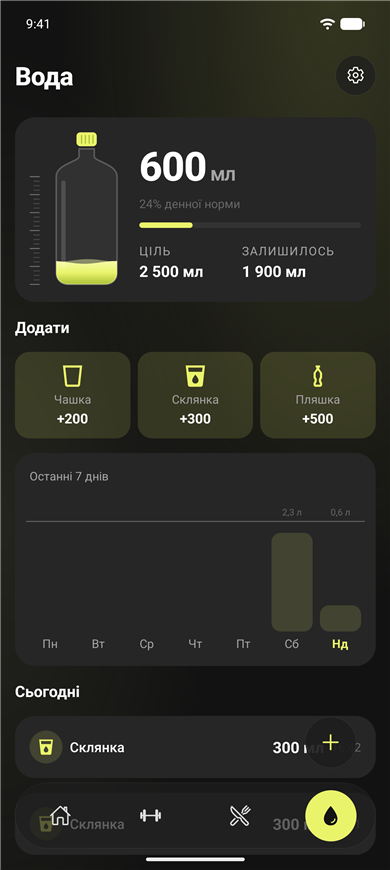
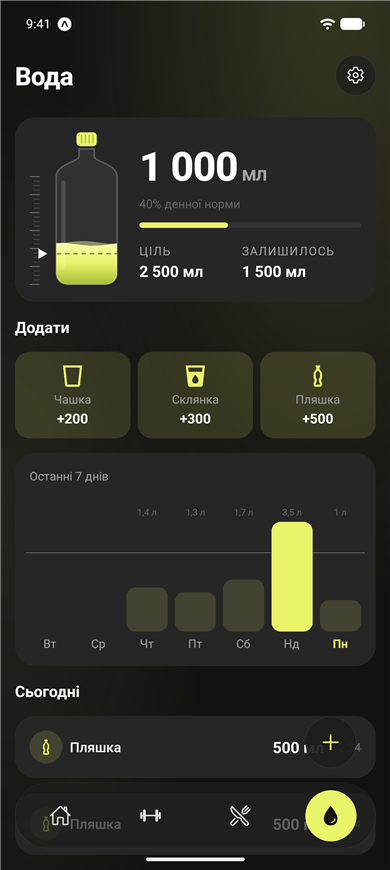
Mark on the water bottle where the level should be by now
The pace follows the waking hours from the reminder settings. Shown on the
Water tab and the dashboard water widgets.

diff --git a/src/components/water-bottle.tsx b/src/components/water-bottle.tsx
@@ -8,7 +8,7 @@ import Animated, {
   useSharedValue,
   withSpring,
 } from 'react-native-reanimated';
-import Svg, { ClipPath, Defs, G, LinearGradient, Path, Rect, Stop } from 'react-native-svg';
+import Svg, { ClipPath, Defs, G, Line, LinearGradient, Path, Rect, Stop } from 'react-native-svg';
 
 import { colors } from '@/theme';
 
@@ -186,13 +186,30 @@ function wavePath(levelY: number, angle: number, amplitude: number, phase: numbe
   return `${d}Z`;
 }
 
+/** The upright water line for a fill of `share` (0–1). Empty sits just below the bottom so the wave crests stay hidden. */
+const levelToY = (share: number) => {
+  'worklet';
+  return BOTTOM + 8 - share * (BOTTOM + 8 - TOP);
+};
+
 /**
  * A bottle filled to `progress` (0–1, clamped) with a living water surface:
  * it waves gently, splashes when `progress` grows and sloshes as the phone tilts.
+ * `pace` (0–1) marks on the ruler and across the bottle where the level should be by now.
  */
-export function WaterBottle({ progress, height }: { progress: number; height: number }) {
+export function WaterBottle({
+  progress,
+  height,
+  pace,
+}: {
+  progress: number;
+  height: number;
+  pace?: number;
+}) {
   const id = useId().replace(/[^a-zA-Z0-9]/g, '');
   const target = Math.min(Math.max(progress, 0), 1);
+  const paceY = pace != null && pace > 0 ? levelToY(Math.min(pace, 1)) : null;
+  const ahead = paceY != null && target >= Math.min(pace ?? 0, 1);
   const level = useSharedValue(target);
   const phase = useSharedValue(0);
   // Direction of "down" on screen, in radians from straight down.
@@ -248,8 +265,7 @@ export function WaterBottle({ progress, height }: { progress: number; height: nu
 
   const waterY = () => {
     'worklet';
-    // Empty sits just below the bottom so the wave crests stay hidden.
-    return BOTTOM + 8 - level.get() * (BOTTOM + 8 - TOP);
+    return levelToY(level.get());
   };
 
   const frontProps = useAnimatedProps(() => ({
@@ -304,9 +320,28 @@ export function WaterBottle({ progress, height }: { progress: number; height: nu
           <AnimatedPath animatedProps={backProps} fill={colors.accentGradientEnd} opacity={0.45} />
           <AnimatedPath animatedProps={frontProps} fill={`url(#water${id})`} />
           <Rect x={20} y={76} width={7} height={140} rx={3.5} fill="rgba(255,255,255,0.14)" />
+          {paceY != null && (
+            <Line
+              x1={0}
+              y1={paceY}
+              x2={BOTTLE_W}
+              y2={paceY}
+              stroke={ahead ? 'rgba(20,20,20,0.45)' : 'rgba(255,255,255,0.6)'}
+              strokeWidth={2.5}
+              strokeDasharray="7 6"
+            />
+          )}
         </G>
         <Path d={BODY} fill="none" stroke="rgba(255,255,255,0.22)" strokeWidth={2.5} />
       </G>
+
+      {paceY != null && (
+        // Points from the ruler at the level that should be drunk by now.
+        <Path
+          d={`M${BOTTLE_X - 2} ${paceY} L${BOTTLE_X - 16} ${paceY - 8} V${paceY + 8} Z`}
+          fill={colors.text}
+        />
+      )}
     </Svg>
   );
 }

diff --git a/src/components/dashboard/widgets.tsx b/src/components/dashboard/widgets.tsx
@@ -12,6 +12,7 @@ import { drinkWater, GlassButton } from '@/components/water-card';
 import { WaterBottle } from '@/components/water-bottle';
 import { type PourRequest, WaterPourModal } from '@/components/water-pour-modal';
 import { useAnimatedNumber } from '@/hooks/use-animated-number';
+import { useNow } from '@/hooks/use-now';
 import type { DashboardData } from '@/db/dashboard';
 import { startWorkout } from '@/db/workouts';
 import { estimateKcal } from '@/lib/calories';
@@ -35,6 +36,7 @@ import {
 } from '@/lib/labels';
 import { formatNumber, formatWeight, notStarted, workoutDurationMs } from '@/lib/metrics';
 import { dailyPhrase } from '@/lib/motivation';
+import { paceShare } from '@/lib/reminders';
 import { averageOfLogged, daysBetween, dayStreak, weekStreak } from '@/lib/stats';
 import { formatVolume, kgToDisplay, unitSystem, VOLUME_UNIT, WEIGHT_UNIT } from '@/lib/units';
 import { GLASS_PRESETS, type GlassPreset } from '@/lib/water';
@@ -648,8 +650,9 @@ export function WaterPourProvider({ children }: { children: ReactNode }) {
 }
 
 function WaterTodayWidget({ size, data }: WidgetProps) {
-  const { todayMl, goal } = data.water;
+  const { todayMl, goal, dayWindow } = data.water;
   const progress = goal > 0 ? todayMl / goal : 0;
+  const pace = paceShare(dayWindow, useNow());
   const ml = Math.round(useAnimatedNumber(todayMl));
   const open = () => router.navigate('/water');
   const pour = useContext(WaterPourContext);
@@ -660,7 +663,7 @@ function WaterTodayWidget({ size, data }: WidgetProps) {
         <TileTitle title={tr('Вода', 'Water')} icon="water" />
         <View style={styles.bottleRow}>
           <GoalPulse reached={progress >= 1}>
-            <WaterBottle progress={progress} height={64} />
+            <WaterBottle progress={progress} pace={pace} height={64} />
           </GoalPulse>
           <View>
             <Big small>
@@ -727,7 +730,7 @@ function WaterTodayWidget({ size, data }: WidgetProps) {
       <TileTitle title={tr('Вода сьогодні', 'Water today')} icon="water" />
       <View style={styles.waterLarge}>
         <GoalPulse reached={progress >= 1}>
-          <WaterBottle progress={progress} height={230} />
+          <WaterBottle progress={progress} pace={pace} height={230} />
         </GoalPulse>
         <View style={styles.waterSide}>
           <View>

diff --git a/src/app/(tabs)/water.tsx b/src/app/(tabs)/water.tsx
@@ -24,9 +24,11 @@ import { type PourRequest, WaterPourModal } from '@/components/water-pour-modal'
 import { deleteWater, loadWater, updateWater } from '@/db/water';
 import { useAnimatedNumber } from '@/hooks/use-animated-number';
 import { useDbQuery } from '@/hooks/use-db-query';
+import { useNow } from '@/hooks/use-now';
 import { useToday } from '@/hooks/use-today';
 import { locale, tr } from '@/lib/i18n';
 import { WEEKDAY_SHORT, weekdayIndex } from '@/lib/labels';
+import { paceShare } from '@/lib/reminders';
 import { formatVolume, formatVolumeCompact, VOLUME_UNIT } from '@/lib/units';
 import { GLASS_PRESETS, glassForAmount, glassToHold } from '@/lib/water';
 import { colors, fontSize, radius, spacing } from '@/theme';
@@ -39,12 +41,13 @@ const QUICK_ML = 300;
 export default function WaterScreen() {
   const tabBarSpace = useTabBarSpace();
   const day = useToday();
+  const now = useNow();
   const { data } = useDbQuery(() => loadWater(), [day]);
   const dialog = useDialog();
   const [pouring, setPouring] = useState<(PourRequest & { editId?: number }) | null>(null);
 
   if (!data) return <Loading />;
-  const { goal, todayEntries, todayMl, days, today } = data;
+  const { goal, todayEntries, todayMl, days, today, dayWindow } = data;
 
   const remove = (
     id: number,
@@ -79,7 +82,11 @@ export default function WaterScreen() {
         <Card onPress={() => router.push('/settings/water')}>
           <Row style={styles.hero}>
             <GoalPulse reached={goal > 0 && todayMl >= goal}>
-              <WaterBottle progress={goal > 0 ? todayMl / goal : 0} height={170} />
+              <WaterBottle
+                progress={goal > 0 ? todayMl / goal : 0}
+                pace={paceShare(dayWindow, now)}
+                height={170}
+              />
             </GoalPulse>
             <WaterSummary todayMl={todayMl} goal={goal} />
           </Row>

diff --git a/src/db/water.ts b/src/db/water.ts
@@ -2,6 +2,7 @@ import { asc, eq, gte } from 'drizzle-orm';
 
 import { addDays, DEFAULT_WATER_GOAL_ML, startOfDay } from '@/lib/water';
 import { db } from './client';
+import { getDayWindow } from './reminders';
 import { settings, waterIntakes } from './schema';
 
 const GOAL_KEY = 'water_goal_ml';
@@ -33,14 +34,15 @@ export async function deleteWater(id: number) {
 }
 
 /**
- * Today's glasses (oldest first), the goal, and per-day totals for the last
- * `HISTORY_DAYS` days ending today.
+ * Today's glasses (oldest first), the goal, the waking hours it is spread
+ * over, and per-day totals for the last `HISTORY_DAYS` days ending today.
  */
 export async function loadWater(now = Date.now()) {
   const today = startOfDay(now);
   const from = addDays(today, -(HISTORY_DAYS - 1));
-  const [goal, rows] = await Promise.all([
+  const [goal, dayWindow, rows] = await Promise.all([
     getWaterGoal(),
+    getDayWindow(),
     db.query.waterIntakes.findMany({
       where: gte(waterIntakes.drankAt, from),
       orderBy: [asc(waterIntakes.drankAt)],
@@ -61,5 +63,6 @@ export async function loadWater(now = Date.now()) {
     todayMl: todayEntries.reduce((sum, r) => sum + r.amountMl, 0),
     days,
     today,
+    dayWindow,
   };
 }

diff --git a/src/lib/reminders.ts b/src/lib/reminders.ts
@@ -59,7 +59,13 @@ export function expectedByMinute(window: DayWindow, goal: number, min: number) {
   return goal * share;
 }
 
-const roundUp = (ml: number) => Math.ceil(ml / DEFICIT_STEP_ML) * DEFICIT_STEP_ML;
+/** Share of the day's goal (0–1) that should be drunk by `now` at an even pace. */
+export function paceShare(window: DayWindow, now: number) {
+  const d = new Date(now);
+  return expectedByMinute(window, 1, d.getHours() * 60 + d.getMinutes());
+}
+
+const roundUp =(ml: number) => Math.ceil(ml / DEFICIT_STEP_ML) * DEFICIT_STEP_ML;
 
 export type WaterReminder = { at: number; title: string; body: string };
 
